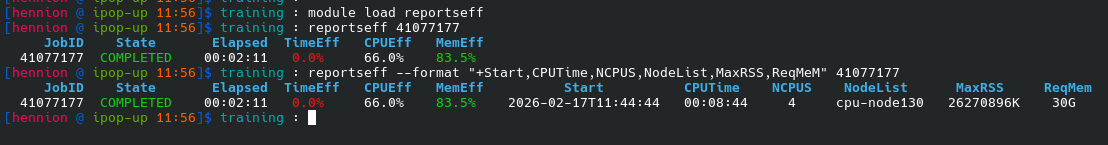
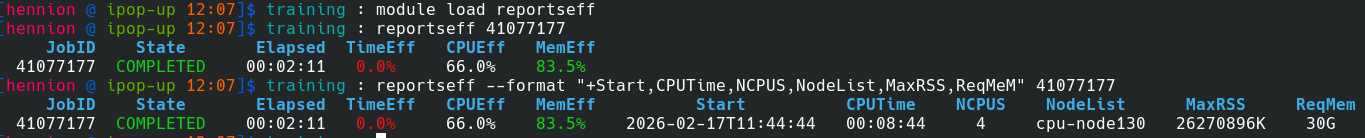
keep seff

diff --git a/_training/cluster_training_2602.md b/_training/cluster_training_2602.md
@@ -262,14 +262,22 @@ sacct --format=JobID,JobName,Start,Elapsed,CPUTime,NCPUS,NodeList,MaxRSS,ReqMeM,
 
 To see every options, run `sacct --helpformat`
 
+## Job efficiency : seff
+
+After the run, the `seff` command allows you to access information about the efficiency of a job.
+```
+seff <jobid>
+```
+<img src="{{site.baseurl}}/images/seff2.png" alt="drawing" width="400"/>
+
 ## Job efficiency : reportseff
 
-After the run, the `reportseff` command allows you to access information about the efficiency of a job.
+You can also use the `reportseff` module to get more information. The options are the same as for the `sacct` command.
 ```
 module load reportseff
 reportseff <jobid>
 ```
-<img src="{{site.baseurl}}/images/reportseff.png" alt="drawing" width="800"/>
+<img src="{{site.baseurl}}/images/reportseff.png" alt="drawing" width="900"/>
 
 # Practical example
 
